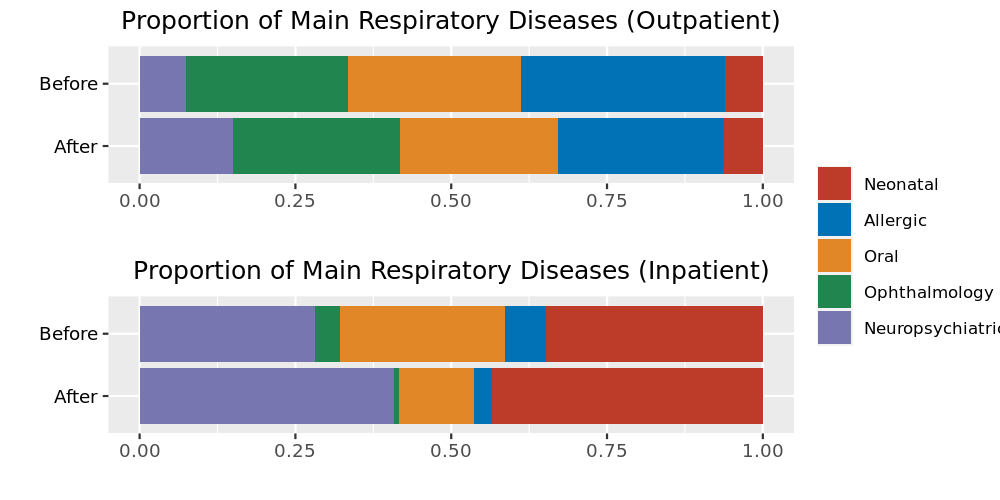
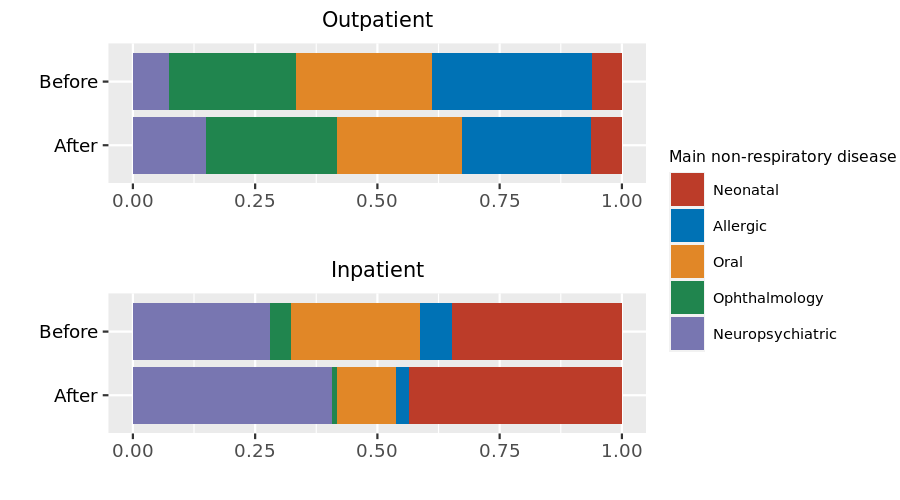
making docs

diff --git a/readthedocs/source/index.rst b/readthedocs/source/index.rst
@@ -551,17 +551,17 @@ Plot proportion of visiting reason:
 
 .. code-block:: python
 
-   plot_prop = function(df, title, nrow_legend=2){
+   plot_prop = function(df, title, lab_title, nrow_legend=2){
       p = ggplot(df, aes(x = policy, weight = prop, fill = group))+
          geom_bar(position = "stack") +
-         xlab('') + ylab('') + labs(fill = '') +
-         theme(plot.title = element_text(size = 12, hjust = 0.5),
+         xlab('') + ylab('') + 
+         theme(plot.title = element_text(size = 10, hjust = 0.5),
                axis.text.y = element_text(color="black"), 
-               legend.position="none", legend.title=element_blank(),
-               legend.text = element_text(size = 8)) +
+               legend.text = element_text(size = 7),
+               legend.title = element_text(size = 7.5)) +
          ggtitle(title) +
          coord_flip() +
-         guides(fill=guide_legend(title="", nrow = nrow_legend)) + # legend row
+         guides(fill=guide_legend(title=lab_title, nrow = nrow_legend)) + # legend row
          scale_fill_nejm()
       return(p)
    }
@@ -575,20 +575,23 @@ Plot proportion of visiting reason:
 
    # group with levels1
    plots  = list()
-   plots[[1]] = plot_prop(outpat3, 'Proportion of Main Respiratory Diseases (Outpatient)', nrow_legend=3)
-   plots[[2]] = plot_prop(inpat3, 'Proportion of Main Respiratory Diseases (Inpatient)', nrow_legend=3)
-   plots[[3]] = plot_prop(outpat4, 'Proportion of Main Respiratory Diseases (Outpatient)', nrow_legend=5)
-   plots[[4]] = plot_prop(inpat4, 'Proportion of Main Respiratory Diseases (Inpatient)', nrow_legend=5)
+   plots[[1]] = plot_prop(outpat3, 'Outpatient', 'Main respiratory disease', nrow_legend=3)
+   plots[[2]] = plot_prop(inpat3, 'Inpatient', 'Main respiratory disease', nrow_legend=3)
+   plots[[3]] = plot_prop(outpat4, 'Outpatient', 'Main non-respiratory disease', nrow_legend=5)
+   plots[[4]] = plot_prop(inpat4, 'Inpatient', 'Main non-respiratory disease', nrow_legend=5)
 
    p1 = ggarrange(plots[[1]], plots[[2]], hjust=0.1, vjust=0.1, ncol=1, nrow=2, common.legend=T, legend="right")
    p2 = ggarrange(plots[[3]], plots[[4]], hjust=0.1, vjust=0.1, ncol=1, nrow=2, common.legend=T, legend="right")
 
-   png('./plot/dis_prop1.png',height=500, width=1000, res=150)
+
+   png('./plot/dis_prop1.png',height=500, width=900, res=150)
    print(p1)
    dev.off()
-   png('./plot/dis_prop2.png',height=500, width=1000, res=150)
+
+   png('./plot/dis_prop2.png',height=500, width=900, res=150)
    print(p2)
    dev.off()
+
 
 
 Plot proportion of hosptialization fee:
@@ -597,14 +600,14 @@ Plot proportion of hosptialization fee:
 
    plots  = list()
    for (i in unique(fee_prop$dpt)){
-      title = ifelse(i=='Other', 'Proportion of Hospitalization Expenses on Respiratory / Infectious Diseases', 
-         'Proportion of Hospitalization Expenses on Other Diseases')
+      title = ifelse(i=='Other', 'Respiratory / Infectious Diseases', 
+         'Other Diseases')
       df_p1 = fee_prop%>%filter(dpt==i)
-      p = plot_prop(df_p1, title, nrow_legend=8)
+      p = plot_prop(df_p1, title, 'Hospitalization expense', nrow_legend=8)
       plots[[i]] = p 
    }
-   p <- ggarrange(plots[[1]], plots[[2]], hjust=0.1, vjust=0.1, ncol=1, nrow=2, common.legend=T, legend="right")
-   png('./plot/fee_prop.png',height=500, width=1500, res=150)
+   p = ggarrange(plots[[1]], plots[[2]], hjust=0.1, vjust=0.1, ncol=1, nrow=2, common.legend=T, legend="right")
+   png('./plot/fee_prop.png',height=500, width=1000, res=150)
    print(p)
    dev.off()
 
